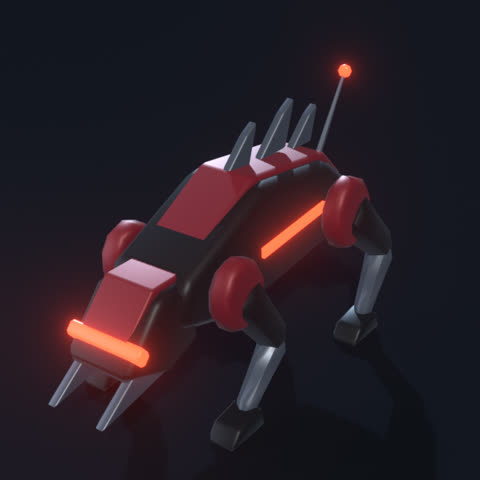
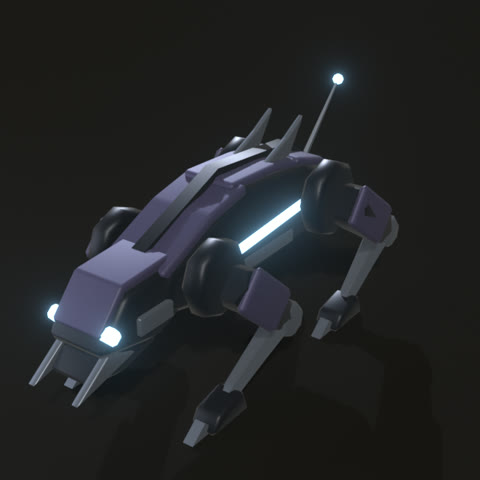
Landing page: all eleven towers with renders of the new models, refreshed enemy pictures

Changed region(s): [[0.0625, 0.0938, 0.8438, 0.9062], [0.375, 0.8438, 0.5, 0.9375]]

diff --git a/index.html b/index.html
@@ -174,6 +174,26 @@
             <div class="unit-img"><img src="./media/tower_beacon.png" width="640" height="640" loading="lazy" alt="Signal Beacon render" /></div>
             <div class="unit-txt"><p class="unit-tag"><span>Support</span><span>120 cr</span></p><h3>Signal Beacon</h3><p>Fires nothing. Boosts the damage and speed of every tower standing near it.</p></div>
           </li>
+          <li class="unit t-flame">
+            <div class="unit-img"><img src="./media/tower_flame.png" width="640" height="640" loading="lazy" alt="Flame Projector render" /></div>
+            <div class="unit-txt"><p class="unit-tag"><span>Close range</span><span>90 cr</span></p><h3>Flame Projector</h3><p>A short cone of fire that hits everything in front of it and leaves it burning. Best on a corner.</p></div>
+          </li>
+          <li class="unit t-lance">
+            <div class="unit-img"><img src="./media/tower_lance.png" width="640" height="640" loading="lazy" alt="Lance Emitter render" /></div>
+            <div class="unit-txt"><p class="unit-tag"><span>Sustained beam</span><span>160 cr</span></p><h3>Lance Emitter</h3><p>A continuous beam that burns hotter the longer it holds one target. Made for Brutes and Colossi.</p></div>
+          </li>
+          <li class="unit t-missile">
+            <div class="unit-img"><img src="./media/tower_missile.png" width="640" height="640" loading="lazy" alt="Missile Battery render" /></div>
+            <div class="unit-txt"><p class="unit-tag"><span>Anti-air</span><span>170 cr</span></p><h3>Missile Battery</h3><p>Salvos of homing missiles at up to three targets. It picks flyers first.</p></div>
+          </li>
+          <li class="unit t-gravity">
+            <div class="unit-img"><img src="./media/tower_gravity.png" width="640" height="640" loading="lazy" alt="Graviton Well render" /></div>
+            <div class="unit-txt"><p class="unit-tag"><span>Control</span><span>120 cr</span></p><h3>Graviton Well</h3><p>Deals no damage. Drags machines back along the road and slows them inside its field.</p></div>
+          </li>
+          <li class="unit t-spire">
+            <div class="unit-img"><img src="./media/tower_spire.png" width="640" height="640" loading="lazy" alt="Uplink Spire render" /></div>
+            <div class="unit-txt"><p class="unit-tag"><span>Uplink</span><span>180 cr</span></p><h3>Uplink Spire</h3><p>A tall relay mast with a platform. Kestrel can only uplink to Spires and teleports between them. Every map starts with one.</p></div>
+          </li>
         </ul>
         <ul class="roster-more">
           <li class="t-flame"><b>Flame Projector</b><span>90 cr</span><p>Short-range cone of fire that leaves enemies burning.</p></li>
